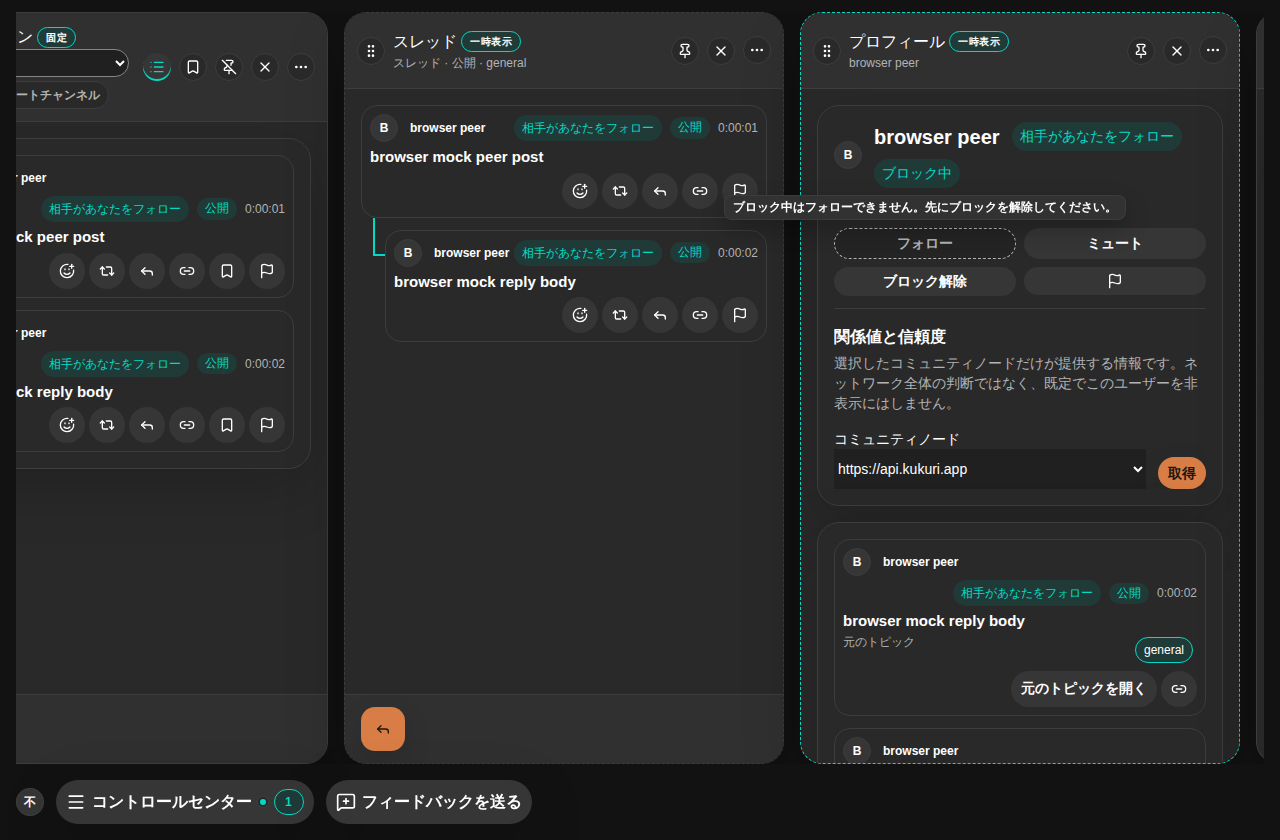
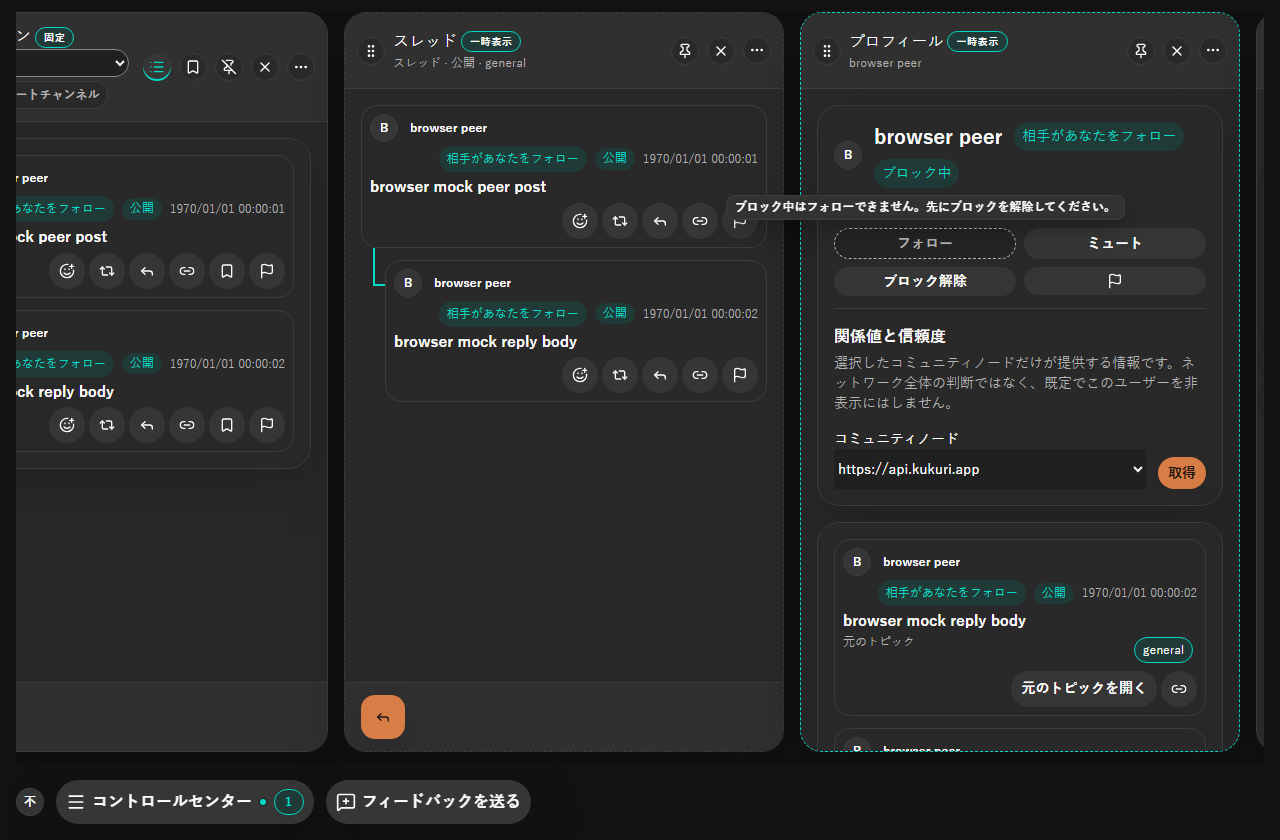
fix: CI 失敗に対応し Draft 保存の待ち時間と関連 test を修正 (#1056)
- Draft 以外の store 更新で Draft 書き込みの待ち時間をやり直さない(照会状態の更新で保存が遅れていた)
- 照会フックを起動しない view model test は照会先なしとして扱う
- 設定のノード欄で許すチェックボックスを採用の切替だけに限定して確認する
- Linux 限定の CLI test の command 数を 142 に更新

Refs #1056

diff --git a/apps/desktop/src/shell/columnDraftPersistence.ts b/apps/desktop/src/shell/columnDraftPersistence.ts
@@ -136,6 +136,7 @@ export function startColumnDraftPersistence(
   let previous = serializeColumnDrafts(store.getState().columnDraftsByKey);
   let timeoutId: ReturnType<typeof setTimeout> | null = null;
   let pending: Record<string, ColumnDraftState> | null = null;
+  let pendingSerialized: string | null = null;
   let suspended = false;
   const flush = () => {
     if (timeoutId !== null) clearTimeout(timeoutId);
@@ -143,6 +144,7 @@ export function startColumnDraftPersistence(
     if (suspended || !pending) return;
     const next = pending;
     pending = null;
+    pendingSerialized = null;
     previous = serializeColumnDrafts(next);
     writeColumnDrafts(storage, next);
   };
@@ -150,7 +152,10 @@ export function startColumnDraftPersistence(
     if (suspended) return;
     const serialized = serializeColumnDrafts(state.columnDraftsByKey);
     if (serialized === previous) return;
+    // Draft 以外の store 更新(照会状態など)で書き込みの待ち時間をやり直さない(#1056)。
+    if (serialized === pendingSerialized) return;
     pending = state.columnDraftsByKey;
+    pendingSerialized = serialized;
     if (timeoutId !== null) clearTimeout(timeoutId);
     timeoutId = setTimeout(flush, DRAFT_WRITE_DELAY_MS);
   });
@@ -159,7 +164,7 @@ export function startColumnDraftPersistence(
     if (!writeColumnDrafts(storage, store.getState().columnDraftsByKey)) throw new Error('Could not retain account drafts');
     suspended = true;
     if (timeoutId !== null) clearTimeout(timeoutId);
-    timeoutId = null; pending = null;
+    timeoutId = null; pending = null; pendingSerialized = null;
     return () => {
       suspended = false;
       pending = store.getState().columnDraftsByKey;

diff --git a/apps/desktop/src/shell/columnDraftPersistence.test.ts b/apps/desktop/src/shell/columnDraftPersistence.test.ts
@@ -53,6 +53,23 @@ describe('Column Draft persistence', () => {
     expect(readColumnDrafts(storage)).toEqual({});
   });
 
+  // #1056: Draft 以外の store 更新が続いても、書き込みの待ち時間はやり直さない。
+  it('does not postpone the debounced write for unrelated store updates', () => {
+    const storage = memoryStorage();
+    const events = new EventTarget();
+    const store = createDesktopShellStore({ draftStorage: storage });
+    const stop = startColumnDraftPersistence(store, storage, events);
+    store.getState().setField('columnDraftsByKey', {
+      [columnDraftKey(target)]: { ...createColumnDraft(target), content: 'typed once' },
+    });
+    for (let tick = 0; tick < 5; tick += 1) {
+      vi.advanceTimersByTime(100);
+      store.getState().setField('timelineAdvisoryLookup', { active: true, settled: { [`k${tick}`]: true } });
+    }
+    expect(readColumnDrafts(storage)[columnDraftKey(target)]?.content).toBe('typed once');
+    stop();
+  });
+
   it('round-trips only serializable text Draft state', () => {
     const storage = memoryStorage();
     const draft = {

diff --git a/apps/desktop/src/shell/DesktopShellPage.workspaceResilience.test.tsx b/apps/desktop/src/shell/DesktopShellPage.workspaceResilience.test.tsx
@@ -31,7 +31,13 @@ test('community node panel keeps the configured node active on the current sessi
   const drawer = await openSettingsSection(user, 'community-node');
   const nodeHeading = await within(drawer).findByText('https://api.kukuri.app', { selector: 'h4' });
   const blockElement = closestSection(nodeHeading);
-  expect(within(blockElement).queryByRole('checkbox')).not.toBeInTheDocument();
+  // #867 で削除した自動同意のチェックボックスは出さない。ノードごとのチェックボックスは
+  // #1056 の推定の採用だけ。
+  expect(
+    within(blockElement)
+      .queryAllByRole('checkbox')
+      .map((checkbox) => checkbox.getAttribute('data-testid') ?? '')
+  ).toEqual([expect.stringMatching(/^community-node-advisory-toggle-/)]);
 
   await waitFor(() => {
     expect(within(blockElement).getAllByText('https://api.kukuri.app').length).toBeGreaterThan(0);

diff --git a/apps/desktop/src/shell/useDesktopShellViewModels.test.tsx b/apps/desktop/src/shell/useDesktopShellViewModels.test.tsx
@@ -278,6 +278,8 @@ describe('useDesktopShellViewModels', () => {
     const view = renderViewModels(() => ({
       // 既定の activeTopic='kukuri:topic:general' + public scope の storage key
       timelinesByKey: { 'kukuri:topic:general::public': [post] },
+      // #1056: 照会フックを起動しない構成なので、照会先なし(確定)として扱う。
+      timelineAdvisoryLookup: { active: false, settled: {} },
     }));
 
     const card = view.result.current.activeTimelinePostViews[0];

diff --git a/crates/kukuri-cli/tests/daemon_linux.rs b/crates/kukuri-cli/tests/daemon_linux.rs
@@ -381,7 +381,7 @@ fn protocol_status_registry_and_errors_are_machine_readable() {
     let last_page = registry.page(Some(cursor), 100).expect("last page");
     assert_eq!(second["data"], serde_json::to_value(&last_page).unwrap());
     assert!(last_page.next_cursor.is_none());
-    assert_eq!(first_page.items.len() + last_page.items.len(), 141);
+    assert_eq!(first_page.items.len() + last_page.items.len(), 142);
 
     let schema = call(root.path(), "alpha", &["protocol.schema"]);
     assert!(schema.status.success());
